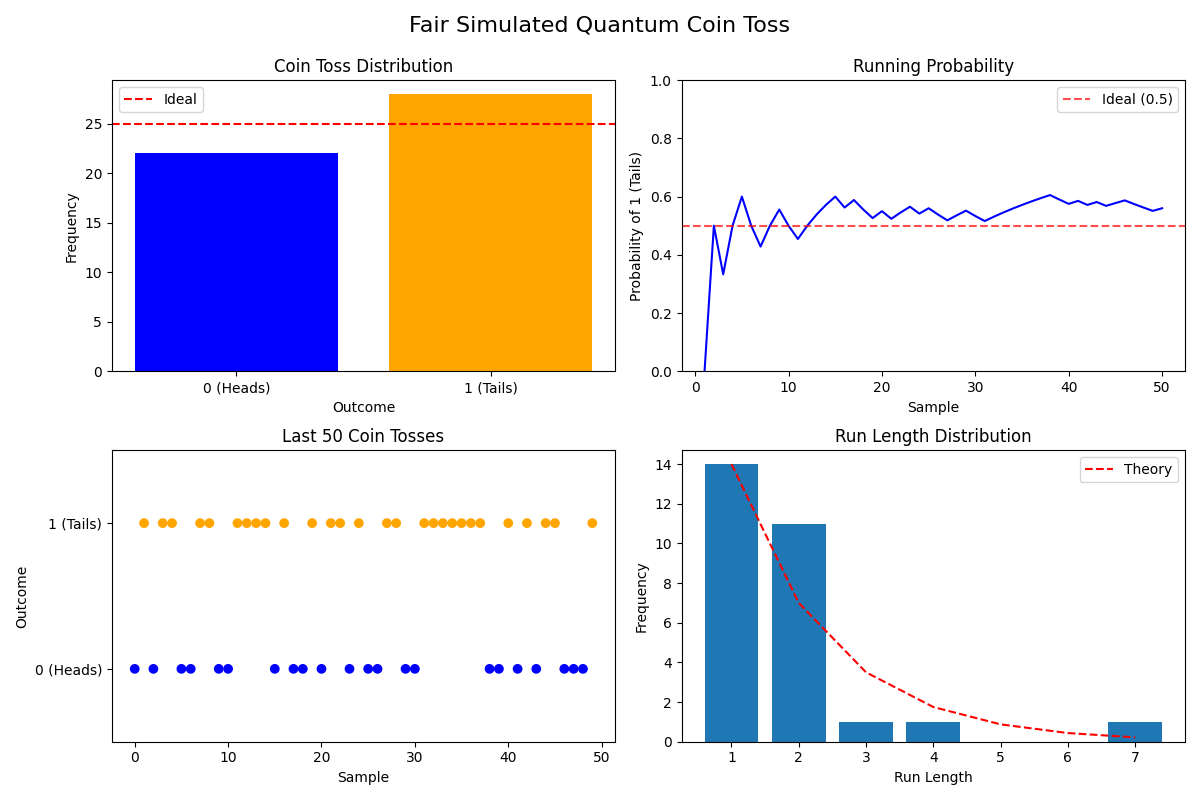
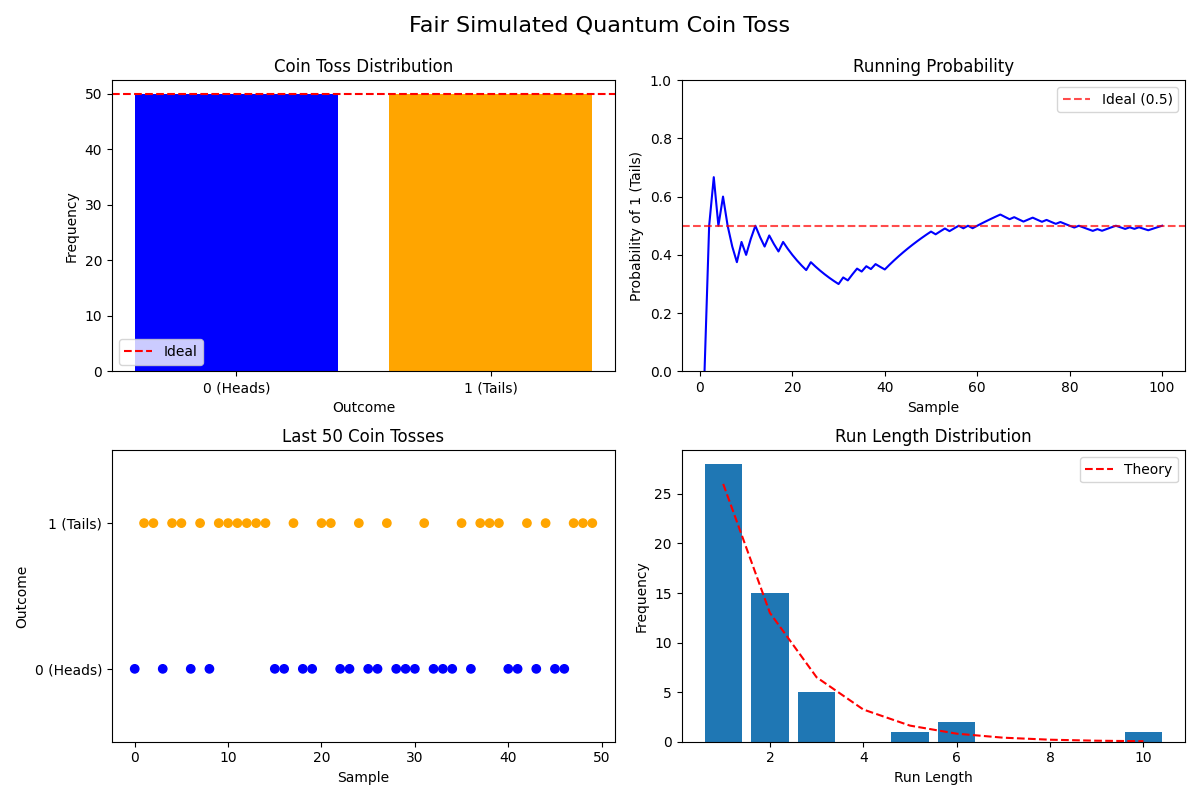
fixed circuit issue to run batch tosses on single circuit

diff --git a/quantum_rings_toss.py b/quantum_rings_toss.py
@@ -9,8 +9,8 @@ from quantum_rings_provider import create_rings_backend
 from quantum_stats import analyze_coin_tosses, print_analysis, plot_results
 from quantum_visualizer import QuantumVisualizer
 
-def run_experiment(num_tosses=100, use_hardware=False, batch_size=10, 
-                  visualize=True, delay=0.1, bias_angle=None):
+def run_experiment(num_tosses=100, use_hardware=False, batch_size=50, 
+                  visualize=True, delay=0.05, bias_angle=None):
     """
     Run a complete quantum coin toss experiment with visualization and analysis
     
@@ -35,10 +35,10 @@ def run_experiment(num_tosses=100, use_hardware=False, batch_size=10,
         p1_theory = np.sin(bias_angle/2)**2
         print(f"Theoretical probabilities: P(0)={p0_theory:.4f}, P(1)={p1_theory:.4f}")
     
-    # Initialize visualizer if requested
+    # Initialize visualizer if requested with optimized settings
     visualizer = None
     if visualize:
-        visualizer = QuantumVisualizer()
+        visualizer = QuantumVisualizer(update_interval=500)  # Less frequent updates
         visualizer.start_visualization(title=experiment_name)
     
     # Storage for results
@@ -47,6 +47,10 @@ def run_experiment(num_tosses=100, use_hardware=False, batch_size=10,
     try:
         # Process in batches for efficiency
         tosses_completed = 0
+        start_time = time.time()
+        
+        # Calculate optimal batch sizes
+        remaining_tosses = num_tosses
         
         while tosses_completed < num_tosses:
             current_batch_size = min(batch_size, num_tosses - tosses_completed)
@@ -64,32 +68,38 @@ def run_experiment(num_tosses=100, use_hardware=False, batch_size=10,
                     else:
                         batch_results.append(1)
             else:
-                # Generate fair quantum coin tosses
+                # Generate fair quantum coin tosses with optimized batching
                 batch_results = batched_quantum_coin_toss(current_batch_size, use_hardware)
             
-            # Add results and update visualization
-            for outcome in batch_results:
-                results.append(outcome)
-                if visualizer:
-                    visualizer.add_result(outcome)
+            # Add all results at once
+            results.extend(batch_results)
+            
+            # Update visualization (only once per batch)
+            if visualizer:
+                visualizer.add_result(batch_results)
                 
-                # Add small delay for visualization
-                if visualize and delay > 0:
-                    plt.pause(delay * 0.1)  # Small pause to update display
-                
+                # Only pause once per batch
+                if delay > 0:
+                    plt.pause(delay)
+            
             # Update progress
             tosses_completed += len(batch_results)
-            if tosses_completed % 10 == 0 or tosses_completed == num_tosses:
-                print(f"Progress: {tosses_completed}/{num_tosses} tosses completed")
+            elapsed = time.time() - start_time
+            rate = tosses_completed / elapsed if elapsed > 0 else 0
+            
+            if tosses_completed % batch_size == 0 or tosses_completed == num_tosses:
+                print(f"Progress: {tosses_completed}/{num_tosses} tosses completed ({rate:.1f} tosses/sec)")
                 
-            # Longer delay between batches
-            if visualize and delay > 0:
-                plt.pause(delay)
-    
     except KeyboardInterrupt:
         print("\nExperiment interrupted by user")
     
     finally:
+        # Display total time
+        total_time = time.time() - start_time
+        toss_rate = num_tosses / total_time if total_time > 0 else 0
+        print(f"\nExperiment completed in {total_time:.2f} seconds")
+        print(f"Average rate: {toss_rate:.1f} tosses per second")
+        
         # Run statistical analysis if we have results
         if results:
             analysis = analyze_coin_tosses(results)
@@ -126,11 +136,11 @@ def main():
                         help='Number of coin tosses to perform')
     parser.add_argument('--hardware', action='store_true',
                         help='Use hardware acceleration')
-    parser.add_argument('--batch-size', type=int, default=10,
+    parser.add_argument('--batch-size', type=int, default=50,  # Increased from 10
                         help='Number of tosses per batch for efficiency')
     parser.add_argument('--no-viz', action='store_true',
                         help='Disable visualization')
-    parser.add_argument('--delay', type=float, default=0.1,
+    parser.add_argument('--delay', type=float, default=0.05,  # Reduced from 0.1
                         help='Delay between visualization updates (seconds)')
     parser.add_argument('--bias', type=float, default=None,
                         help='Set bias angle in radians (0 to π)')

diff --git a/quantum_rings_coin.py b/quantum_rings_coin.py
@@ -39,51 +39,51 @@ def single_quantum_coin_toss(use_hardware=False):
     
     return int(outcome)
 
-def batched_quantum_coin_toss(num_tosses=10, use_hardware=False):
+def batched_quantum_coin_toss(batch_size, use_hardware=False):
     """
-    Perform multiple quantum coin tosses efficiently
+    Perform multiple quantum coin tosses in a single batch for improved performance
     
     Args:
-        num_tosses: Number of coin tosses to perform
+        batch_size: Number of coin tosses to perform
         use_hardware: Whether to use hardware acceleration
-        
+    
     Returns:
-        list: List of 0s and 1s representing coin toss outcomes
+        List of binary outcomes (0 or 1)
     """
-    # Choose the backend
-    if use_hardware:
-        backend = initialize_quantum_backend()
-    else:
-        from qiskit_aer import AerSimulator
-        backend = AerSimulator()
-    
-    # Create a quantum circuit with 1 qubit and num_tosses classical bits
-    qc = QuantumCircuit(1, num_tosses)
-    
-    # Perform the tosses
-    for i in range(num_tosses):
-        # Reset qubit to |0⟩ (except for first iteration where it's already |0⟩)
-        if i > 0:
-            qc.reset(0)
-            
-        # Apply Hadamard gate to create superposition
-        qc.h(0)
+    # Use module-level circuit caching for better performance
+    if not hasattr(batched_quantum_coin_toss, 'cached_circuit'):
+        from qiskit import QuantumCircuit, transpile
         
-        # Measure the qubit
-        qc.measure(0, i)
+        # Create the circuit just once
+        qc = QuantumCircuit(1, 1)
+        qc.h(0)  # Hadamard gate to create superposition
+        qc.measure(0, 0)
+        
+        # Get the backend
+        backend = initialize_quantum_backend()
+        
+        # Pre-transpile for performance
+        batched_quantum_coin_toss.cached_circuit = transpile(qc, backend, optimization_level=3)
+        batched_quantum_coin_toss.backend = backend
     
-    # Run the circuit
-    job = backend.run(qc, shots=1)
-    result = job.result()
-    counts = result.get_counts()
+    # Reuse the cached circuit and backend
+    qc = batched_quantum_coin_toss.cached_circuit
+    backend = batched_quantum_coin_toss.backend
     
-    # Parse the bitstring (comes in reverse order in Qiskit)
-    bit_string = list(counts.keys())[0]
+    # Execute the circuit with the requested number of shots
+    job = backend.run(qc, shots=batch_size)
+    counts = job.result().get_counts()
     
-    # Convert to list of integers (and reverse to get correct order)
-    toss_results = [int(bit) for bit in reversed(bit_string)]
+    # Convert to individual results
+    outcomes = []
+    for outcome, count in counts.items():
+        outcomes.extend([int(outcome)] * count)
     
-    return toss_results
+    # Shuffle to maintain randomness
+    import numpy as np
+    np.random.shuffle(outcomes)
+    
+    return outcomes
 
 def biased_quantum_coin(bias_angle, shots=1):
     """

diff --git a/quantum_visualizer.py b/quantum_visualizer.py
@@ -12,13 +12,12 @@ import collections
 class QuantumVisualizer:
     """Class to visualize quantum randomness in real-time"""
     
-    def __init__(self, max_samples=100, update_interval=200):
+    def __init__(self, max_samples=100, update_interval=500):
         """
         Initialize the visualizer
         
         Args:
             max_samples: Maximum number of samples to display in history
-            update_interval: Milliseconds between animation updates
         """
         self.results = []
         self.running = False
@@ -26,22 +25,31 @@ class QuantumVisualizer:
         self.animation = None
         self.lock = threading.Lock()
         self.max_samples = max_samples
-        self.update_interval = update_interval
+        self.update_interval = update_interval  # Higher value is more efficient
         
         # For qutrit visualization
         self.is_qutrit = False
         
         # For run tracking
         self.run_lengths = collections.deque(maxlen=max_samples)
-    
+        
+        # For performance optimization
+        self._last_data_len = 0
+        
     def add_result(self, result):
         """Add a new measurement result"""
         with self.lock:
-            self.results.append(result)
-            # Keep only the most recent max_samples
-            if len(self.results) > self.max_samples:
-                self.results.pop(0)
-    
+            # Handle single result or batch of results
+            if isinstance(result, (list, tuple, np.ndarray)):
+                self.results.extend(result)
+                # Keep only the most recent max_samples
+                if len(self.results) > self.max_samples:
+                    self.results = self.results[-self.max_samples:]
+            else:
+                self.results.append(result)
+                # Keep only the most recent max_samples
+                if len(self.results) > self.max_samples:
+                    self.results.pop(0)
     def start_visualization(self, title="Quantum Randomness Visualization", is_qutrit=False):
         """Start the visualization thread"""
         self.is_qutrit = is_qutrit
